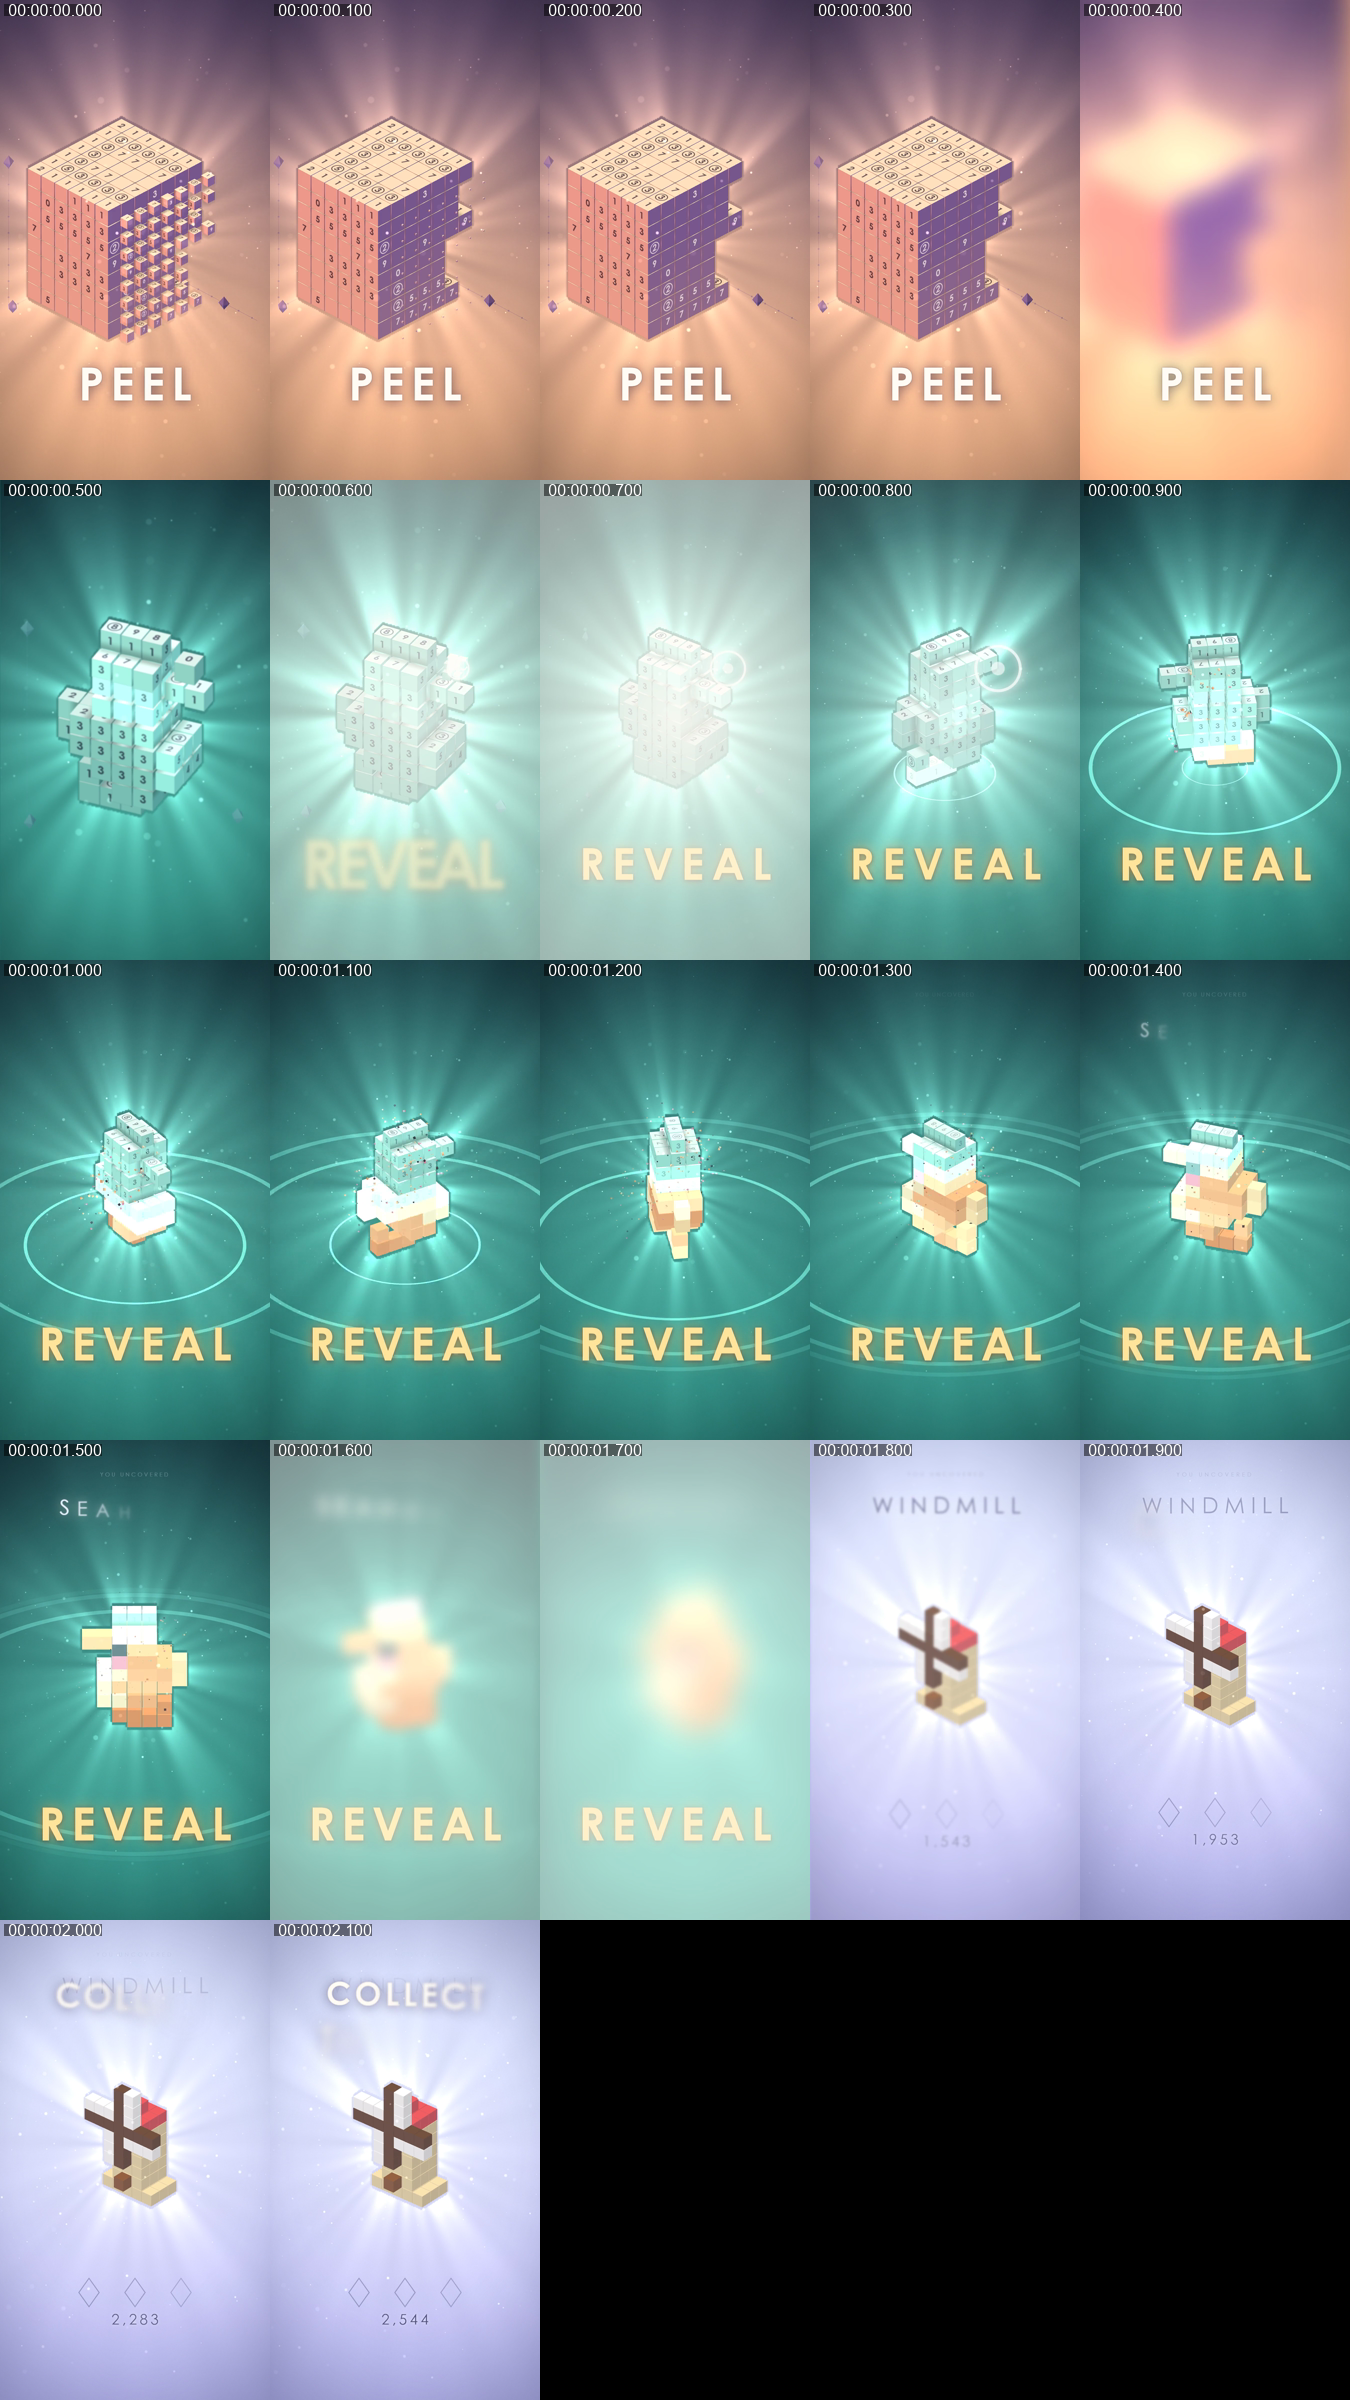
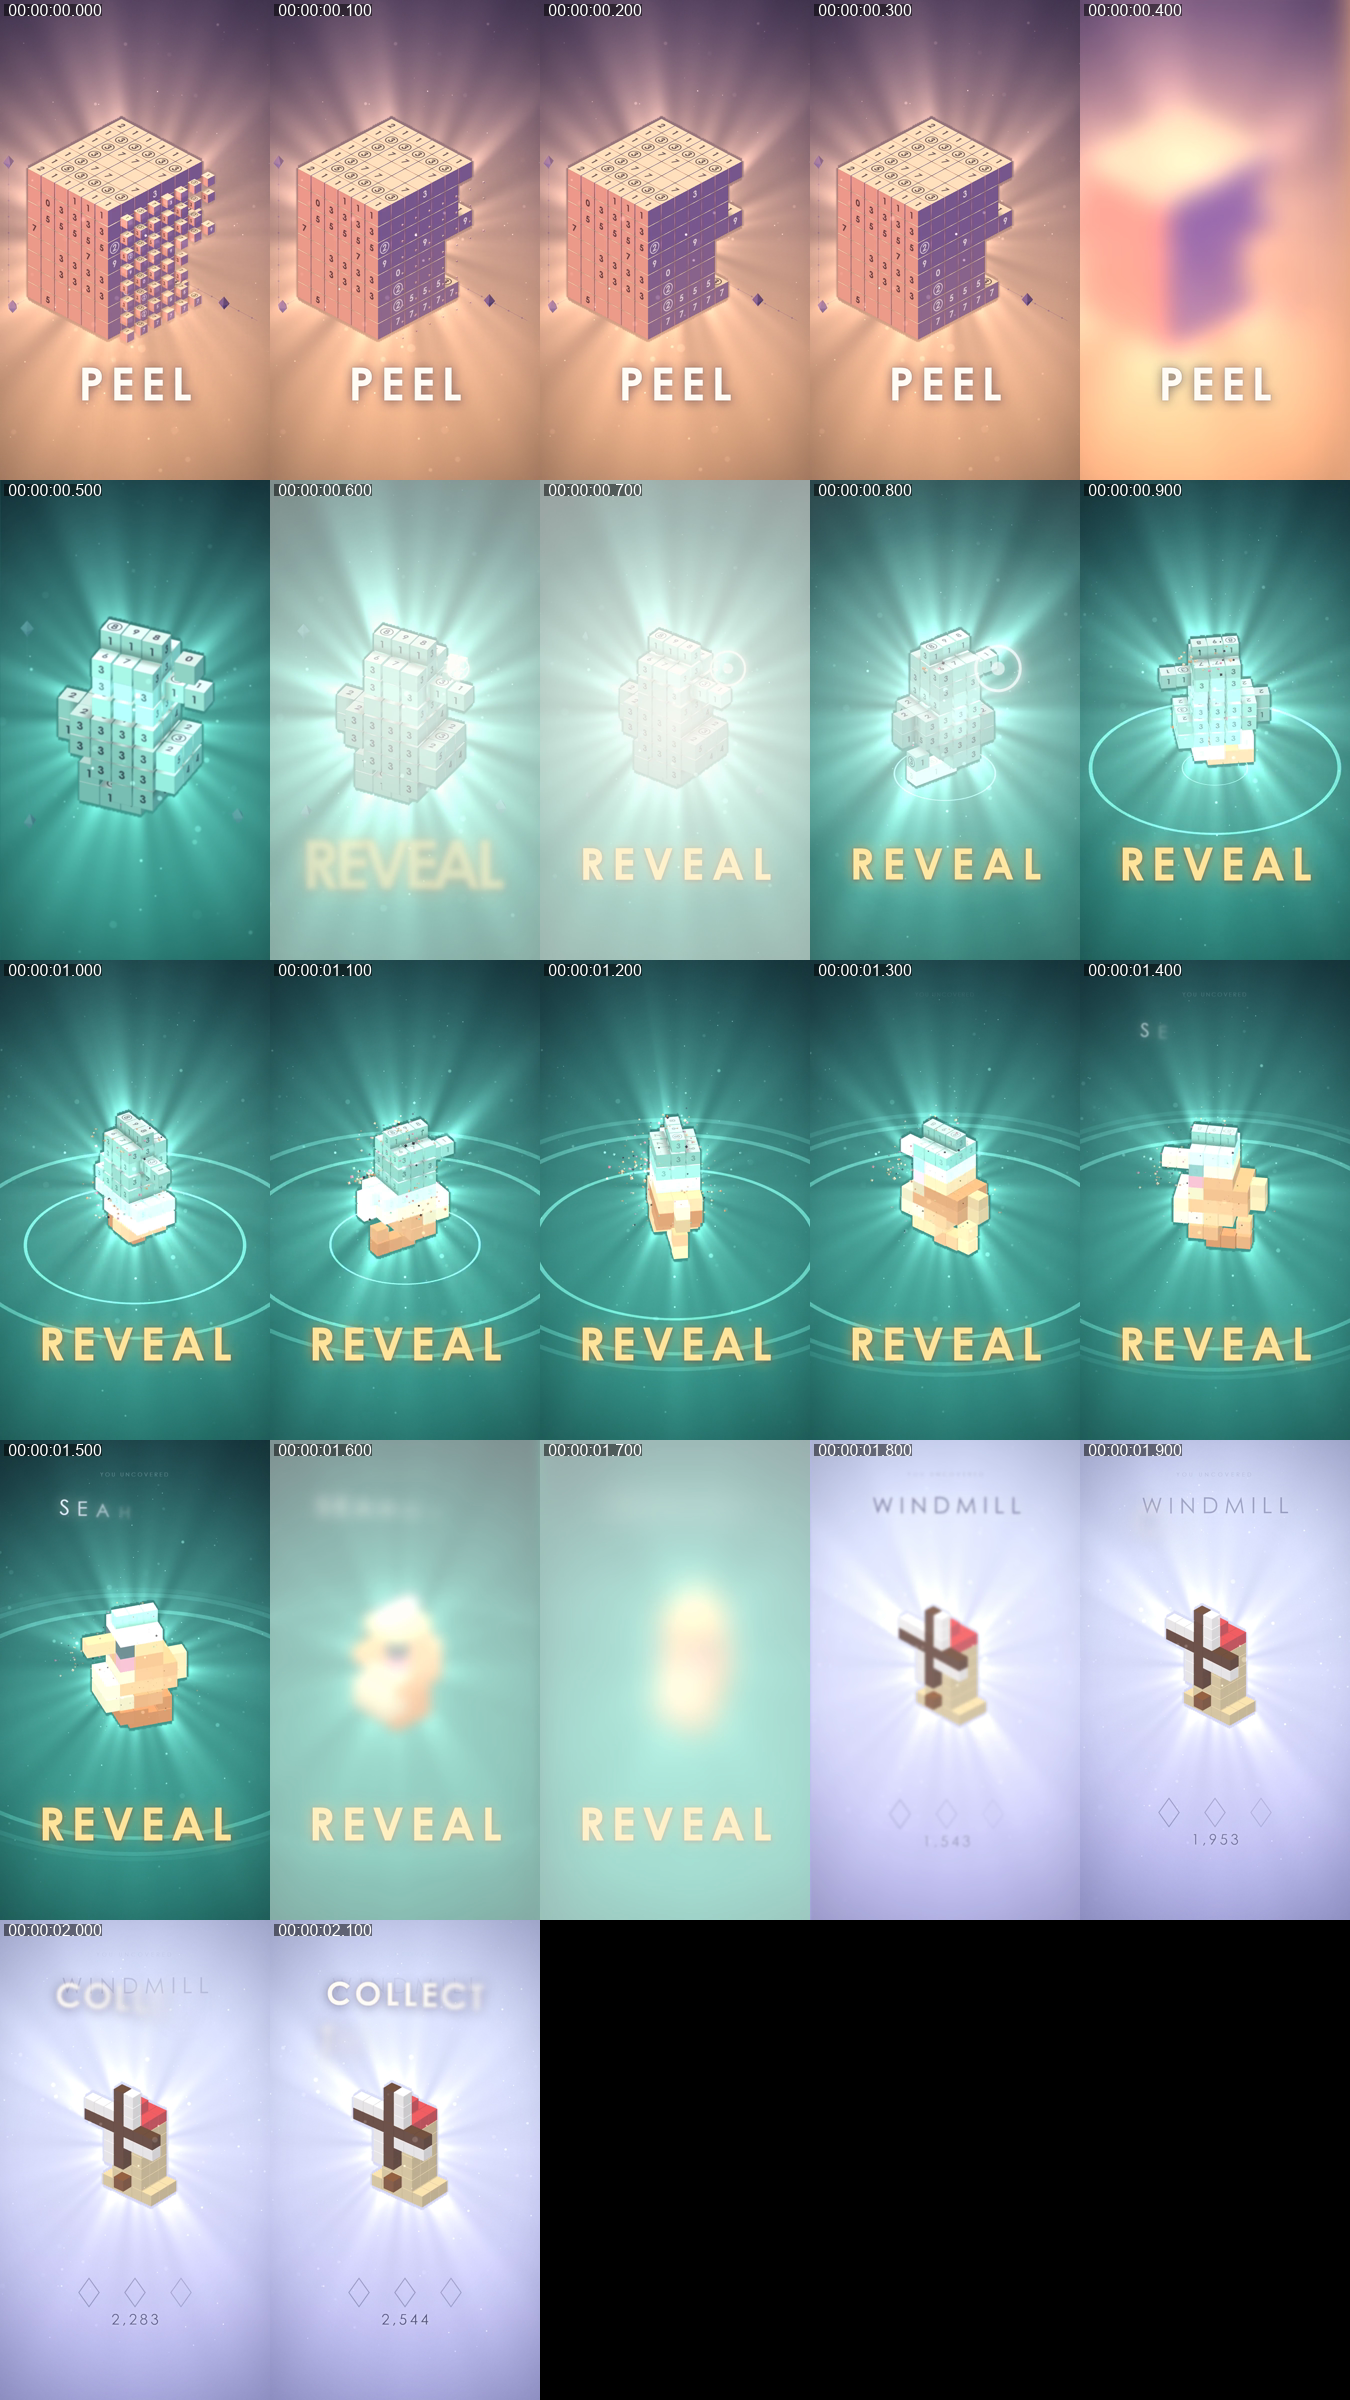
feat(trailer): v5b - the Deep's Seahorse REVEAL in the 25 s trailer too, turning toward camera
Kellan said yes to the Deep scene in the trailer. Its REVEAL slot now gets the
same Seahorse on the teal sea as the ad, in place of the Koinobori. In both
cuts the camera drifts -0.6 rad over the beat's last 0.4 s, after the win's
own framing, so the Seahorse ends three-quarter to camera. Every timing is the
same. Trailer: 25.00 s, 20 of 20 taps break, -15.0 LUFS, TP -1.7 dBFS.
Ad: 15.00 s, 16 of 16 taps, -15.0 LUFS, TP -1.9 dBFS.

Claude-Session: https://claude.ai/code/session_01RJB5cDdXvcLAwaz3VUAMoh

diff --git a/docs/trailer-v2-study.md b/docs/trailer-v2-study.md
@@ -262,3 +262,19 @@ there is amazing and would be a good contrast."
 - **The trailer:** unchanged. It shares the same `triplet`, so the same scene
   would drop in with one argument at `triplet(s, 3.1)`, but it wasn't asked
   for.
+- **Trailer too (Kellan: yes).** `triplet(s, 3.1, DEEP)` puts the same
+  Seahorse REVEAL in the 25 s cut, replacing the Koinobori. Every timing is the
+  same and the cut is 25.00 s. There the teal sits between two warm beats:
+  PEEL's amber, and the amber sky of the Origami Fox's assembly.
+- **Facing camera, both cuts.** Over the beat's last 0.4 s the camera drifts
+  −0.6 rad (`DEEP.turn`), after the win's own framing has finished, so the
+  Seahorse ends three-quarter to camera rather than side-on. No timing moves.
+- **Checks:**
+  - Trailer: 20 of 20 taps break visible cubes; −15.0 LUFS, TP −1.7 dBFS.
+  - Ad: 16 of 16 taps; −15.0 LUFS, TP −1.9 dBFS.
+  - Sheets: `contact/trailer-deep-reveal.png`, `taps-trailer-seahorse.png`.
+- **True peak varies by take.** The first trailer take measured TP −0.3 dBFS
+  at 22.0 s. That take's real-time final chord stacked onto the end card's
+  boom, between samples, and AAC added about 1 dB. A second take measured
+  −1.7. If it recurs, re-record the audio pass, or the build could limit on
+  an oversampled signal.
